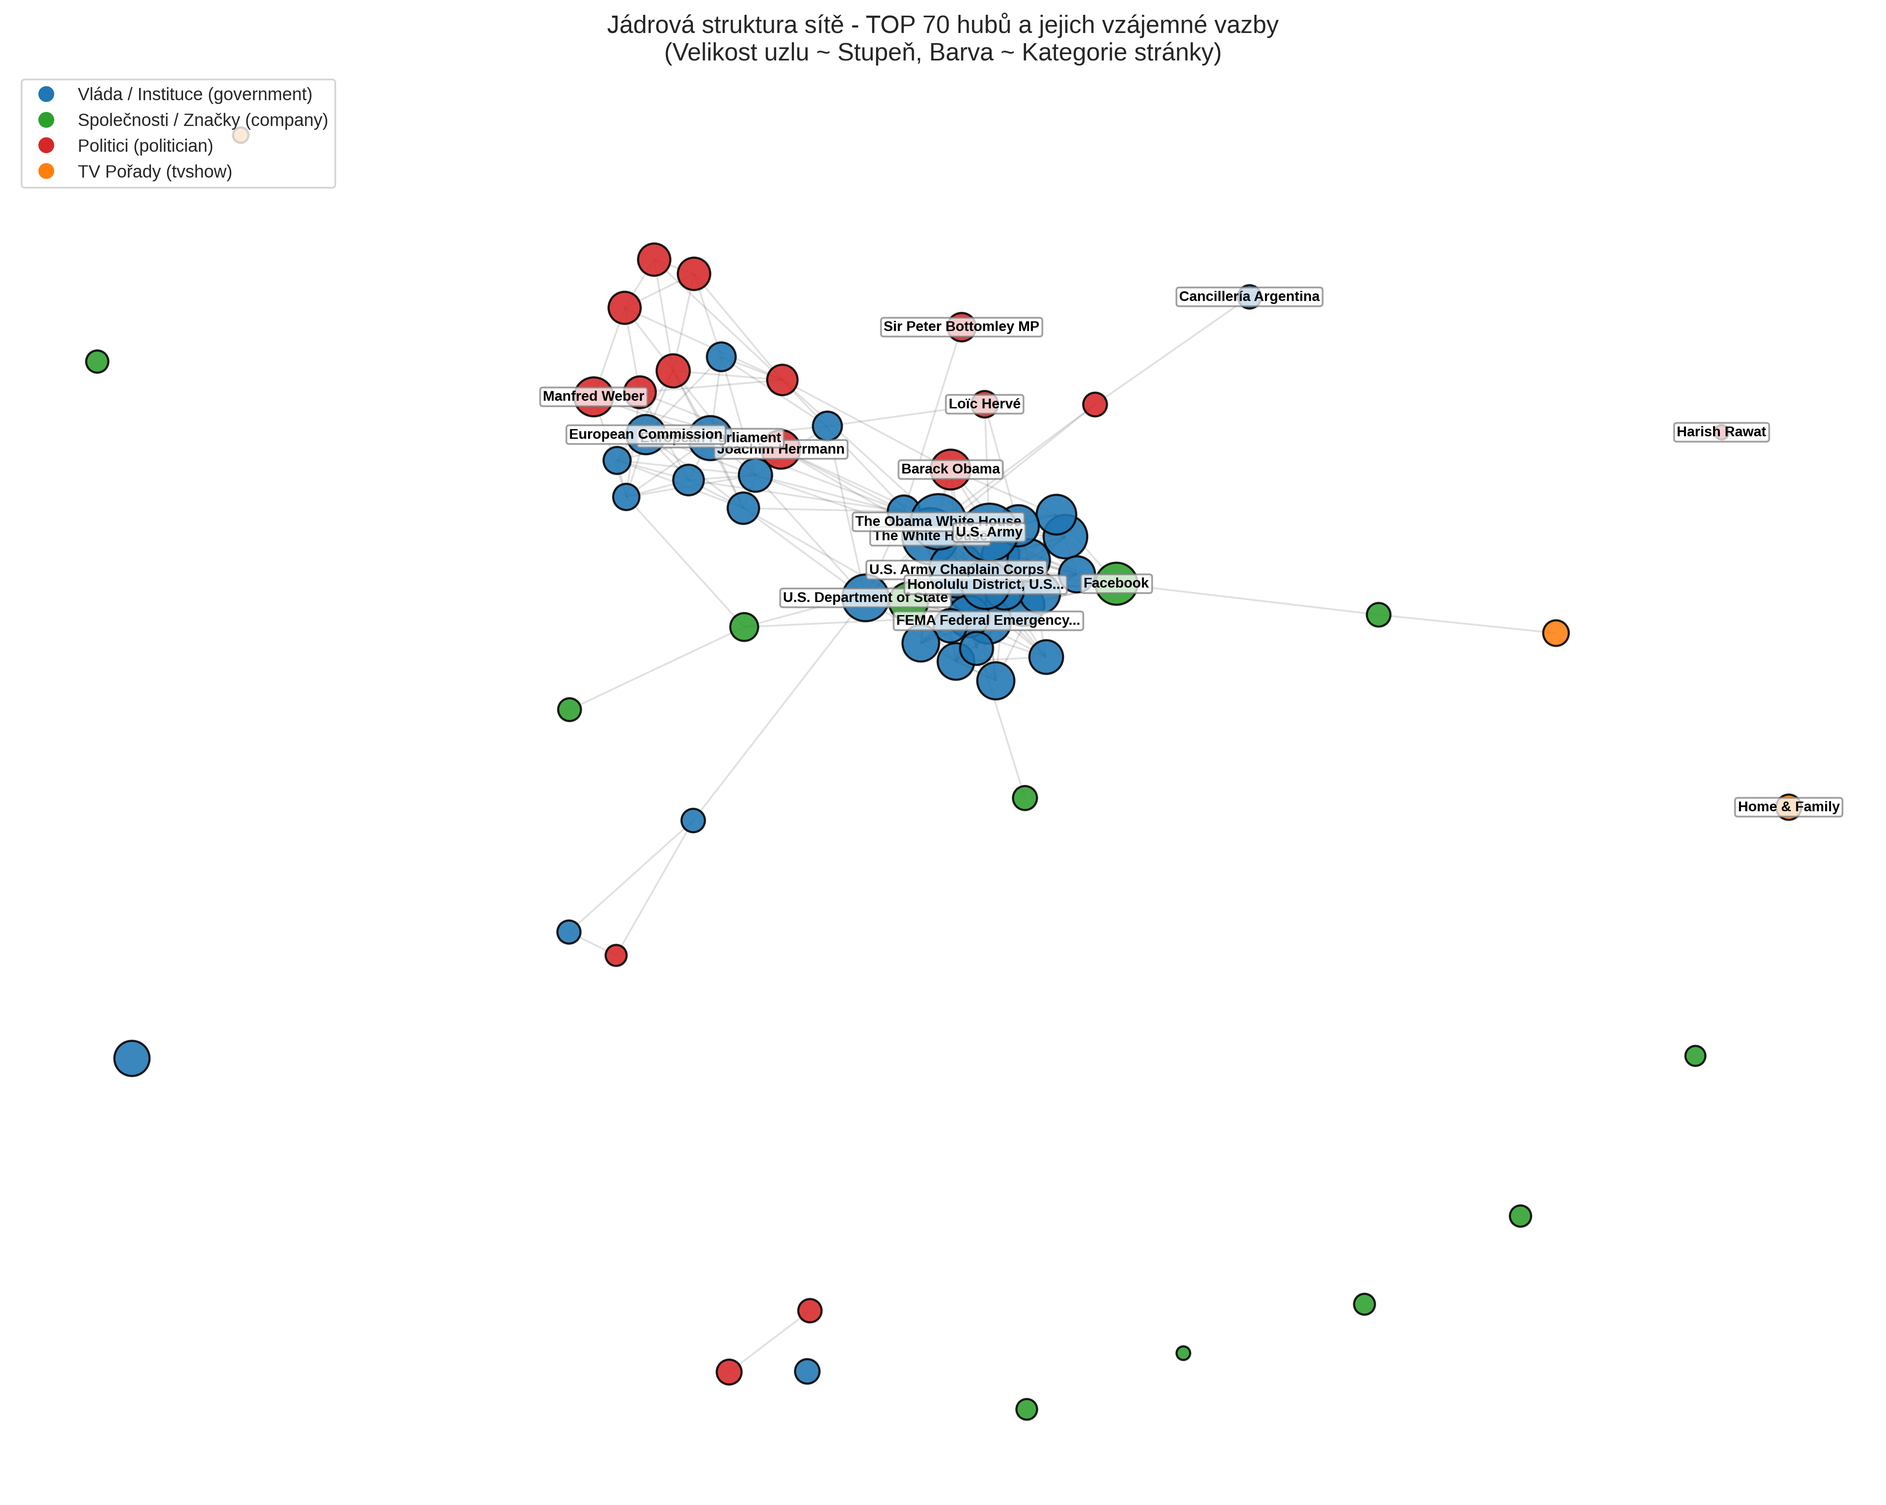
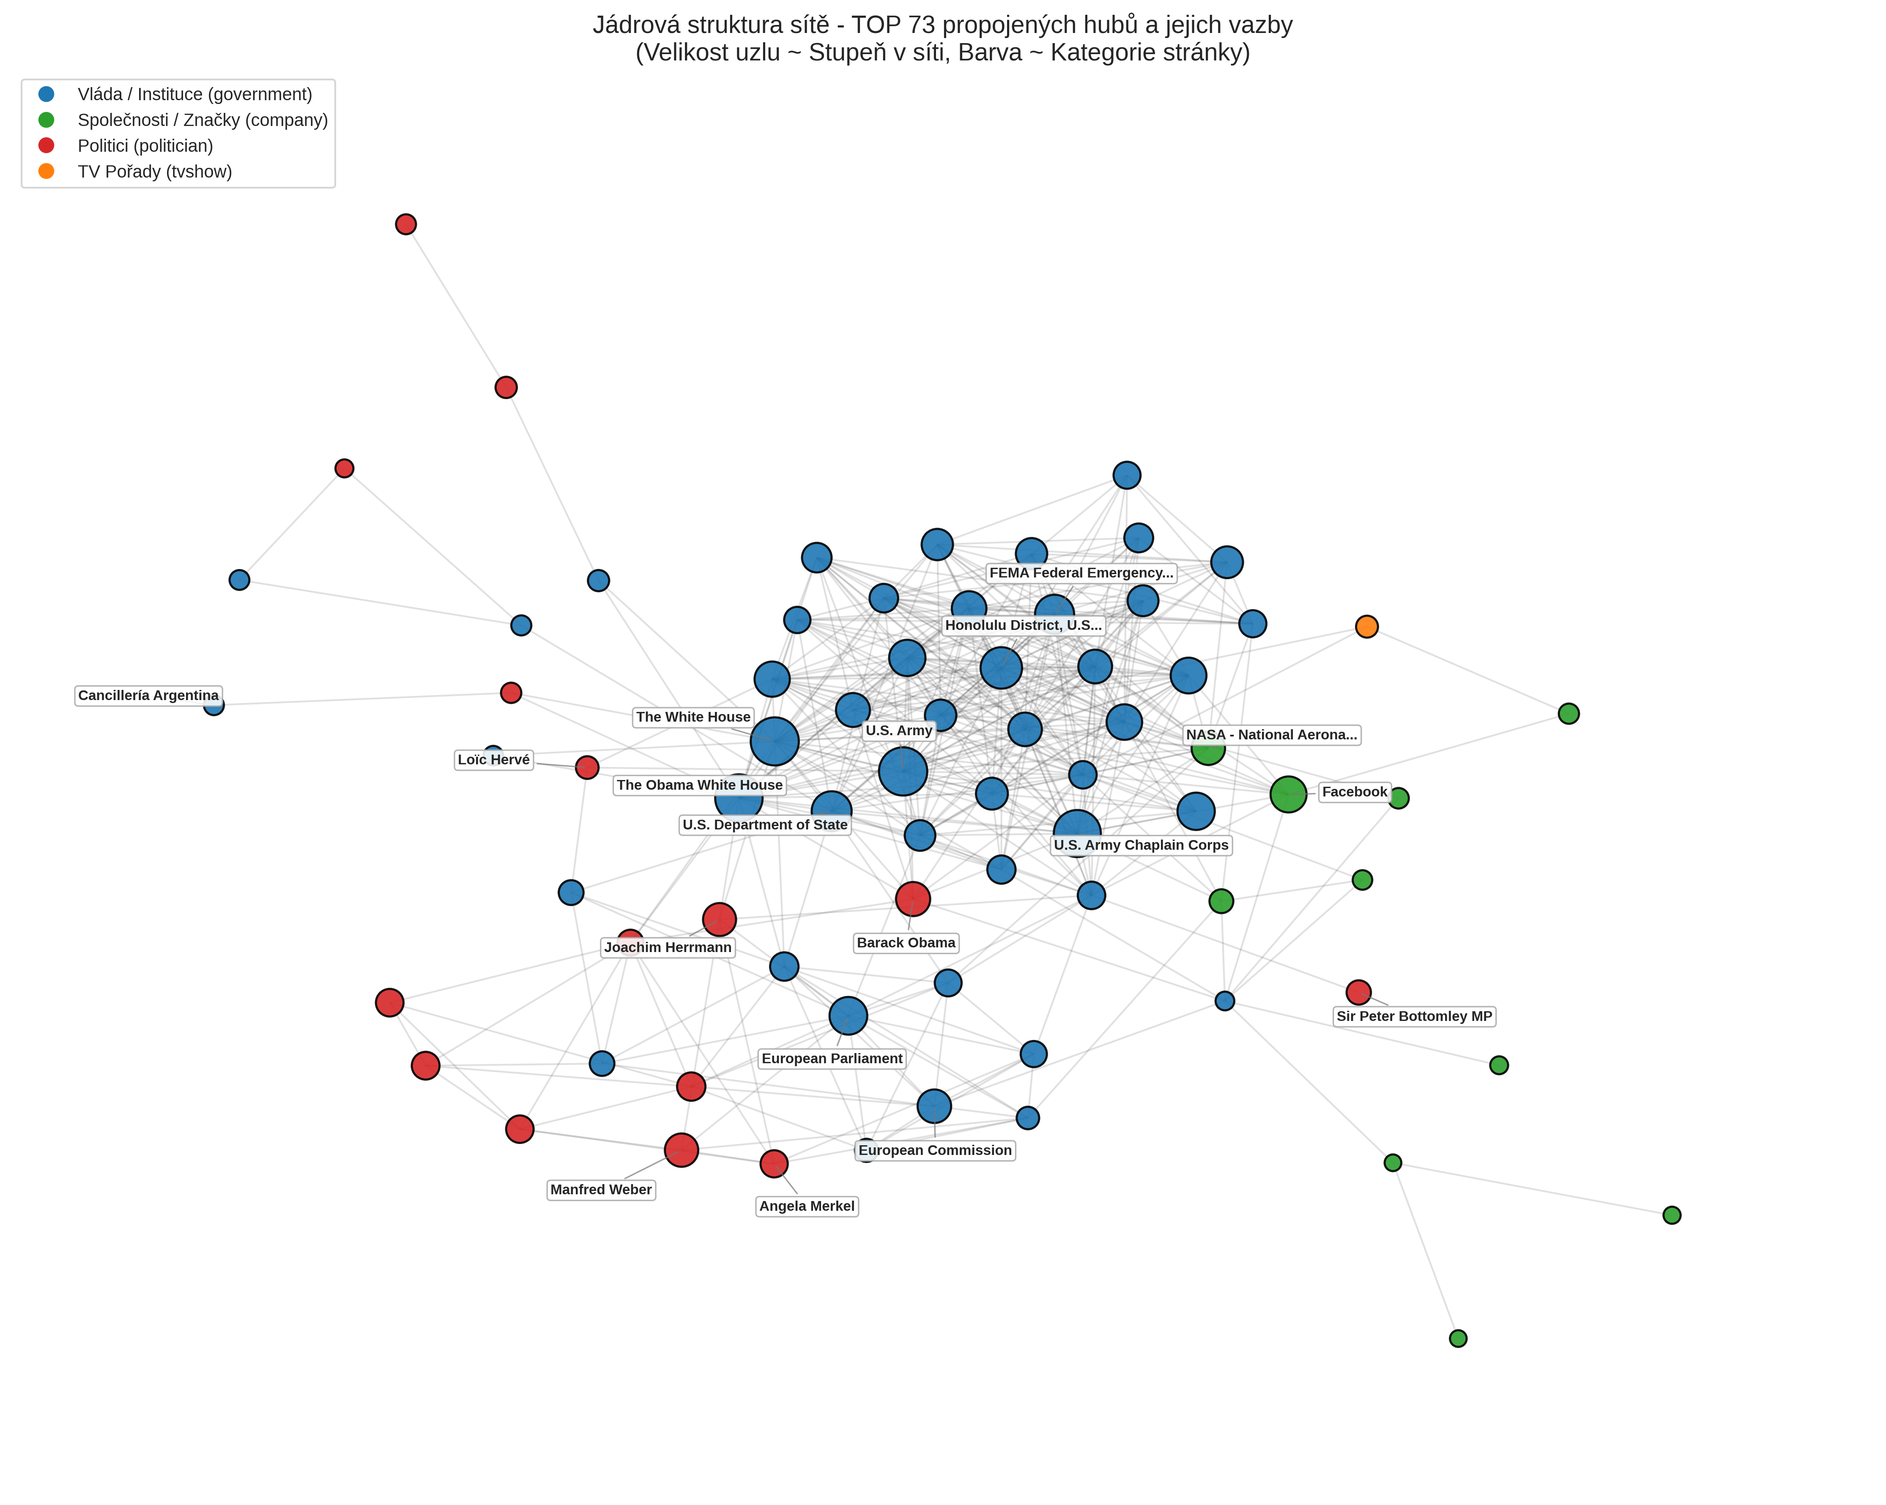
feat: Optimized layout parameters for png export

diff --git a/MAS_projekt.py b/MAS_projekt.py
@@ -425,24 +425,159 @@ def analyze_centralities(G: nx.Graph, df_target: pd.DataFrame, output_dir: str,
     }
 
 
+def relax_nodes(pos: Dict[Any, np.ndarray], min_dist: float = 0.11, 
+                iterations: int = 120, damping: float = 0.95) -> Dict[Any, np.ndarray]:
+    """
+    Vektorově optimalizovaná silová relaxace pro zamezení překryvu uzlů (anti-collision)
+    při současném zachování globální topologie a proporcí grafu.
+    """
+    nodes = list(pos.keys())
+    if len(nodes) <= 1:
+        return pos
+
+    coords = np.array([pos[n] for n in nodes], dtype=float)
+    n = len(nodes)
+    step = 0.2
+
+    for _ in range(iterations):
+        # Vzdálenosti mezi všemi dvojicemi uzlů (n x n)
+        diff = coords[:, np.newaxis, :] - coords[np.newaxis, :, :]
+        dists = np.hypot(diff[:, :, 0], diff[:, :, 1])
+        np.fill_diagonal(dists, 1e9)
+
+        mask = (dists < min_dist) & (dists > 1e-6)
+        if not np.any(mask):
+            break
+
+        forces = np.zeros_like(coords)
+        for i in range(n):
+            close_idx = np.where(mask[i])[0]
+            if len(close_idx) > 0:
+                d = dists[i, close_idx, np.newaxis]
+                dvec = diff[i, close_idx] / d
+                overlap = min_dist - d
+                forces[i] += np.sum(dvec * overlap, axis=0)
+
+        coords += forces * step
+        step *= damping
+
+    # Centrování a normalizace rozsahu
+    center = np.mean(coords, axis=0)
+    coords = coords - center
+    span = max(coords[:, 0].max() - coords[:, 0].min(), coords[:, 1].max() - coords[:, 1].min())
+    if span > 0:
+        coords = coords / (span / 2.0)
+
+    return {nodes[i]: coords[i] for i in range(n)}
+
+
+def smart_place_labels(ax: plt.Axes, pos: Dict[Any, np.ndarray], labels: Dict[Any, str], 
+                       fontsize: int = 8):
+    """
+    Inteligentní rozmístění popisků (labels) s detekcí kolizí a vodícími linkami:
+    Zabraňuje překrývání textových štítků navzájem i uzlů pod nimi.
+    """
+    if not labels:
+        return
+
+    label_items = list(labels.items())
+    label_nodes = [item[0] for item in label_items]
+    label_texts = [item[1] for item in label_items]
+
+    box_w = 0.26
+    box_h = 0.075
+
+    # Počáteční posun mírně směrem od těžiště
+    label_coords = []
+    for n in label_nodes:
+        x, y = pos[n]
+        norm = np.hypot(x, y)
+        if norm > 1e-4:
+            dx, dy = (x / norm) * 0.08, (y / norm) * 0.08
+        else:
+            dx, dy = 0.0, 0.08
+        label_coords.append([x + dx, y + dy])
+    label_coords = np.array(label_coords, dtype=float)
+
+    # Iterační odpuzování textových obdélníků (AABB collision resolution)
+    for _ in range(120):
+        moved = False
+        for i in range(len(label_coords)):
+            for j in range(i + 1, len(label_coords)):
+                dx = label_coords[i][0] - label_coords[j][0]
+                dy = label_coords[i][1] - label_coords[j][1]
+                overlap_x = (box_w * 0.95) - abs(dx)
+                overlap_y = (box_h * 0.95) - abs(dy)
+                if overlap_x > 0 and overlap_y > 0:
+                    moved = True
+                    if overlap_y / box_h < overlap_x / box_w:
+                        shift_y = 0.5 * overlap_y * (1 if dy >= 0 else -1)
+                        label_coords[i][1] += shift_y
+                        label_coords[j][1] -= shift_y
+                    else:
+                        shift_x = 0.5 * overlap_x * (1 if dx >= 0 else -1)
+                        label_coords[i][0] += shift_x
+                        label_coords[j][0] -= shift_x
+        if not moved:
+            break
+
+    # Vykreslení popisků a spojnic k uzlům
+    for i, n in enumerate(label_nodes):
+        nx_val, ny_val = pos[n]
+        lx, ly = label_coords[i]
+        dist = np.hypot(lx - nx_val, ly - ny_val)
+        arrowprops = dict(arrowstyle='-', color='#777777', lw=0.8, alpha=0.7) if dist > 0.07 else None
+
+        ax.annotate(
+            label_texts[i],
+            xy=(nx_val, ny_val),
+            xytext=(lx, ly),
+            ha='center', va='center',
+            fontsize=fontsize,
+            fontweight='bold',
+            bbox=dict(boxstyle='round,pad=0.25', facecolor='white', alpha=0.88, edgecolor='#aaaaaa', linewidth=0.8),
+            arrowprops=arrowprops,
+            zorder=10
+        )
+
+
+def compute_balanced_layout(subG: nx.Graph, min_dist: float = 0.11, 
+                           iterations: int = 120) -> Dict[Any, np.ndarray]:
+    """
+    Vypočítá vyvážený layout grafu s rovnoměrným rozložením uzlů (Kamada-Kawai)
+    a následnou fyzikální relaxací pro zamezení překryvu (anti-collision).
+    """
+    try:
+        pos = nx.kamada_kawai_layout(subG)
+    except Exception:
+        pos = nx.spring_layout(subG, k=0.55, iterations=150, seed=42)
+    return relax_nodes(pos, min_dist=min_dist, iterations=iterations)
+
+
 def visualize_network_hubs(G: nx.Graph, df_target: pd.DataFrame, 
                            centralities: Dict[str, Any], output_dir: str, 
-                           top_hubs_count: int = 70):
+                           top_hubs_count: int = 85):
     """
-    Vizualizuje jádro sítě tvořené nejvýznamnějšími huby (nejvyšší stupeň / PageRank).
+    Vizualizuje jádro sítě tvořené nejvýznamnějšími huby (nejvyšší PageRank / stupeň).
     Zvýrazní velikost podle stupně a barvu podle kategorie stránky (page_type).
-    Označí jménem největší centra/huby.
+    Používá vyvážený layout s prevencí překryvů a čitelné popisky.
     """
     print("\n" + "="*60)
     print(" 5. VIZUALIZACE SÍTĚ A ZVÝRAZNĚNÍ CENTER/HUBŮ")
     print("="*60)
 
-    # Výběr top N uzlů podle PageRanku / stupně pro reprezentativní podgraf jádra
+    # Výběr top N uzlů podle PageRanku pro reprezentativní podgraf jádra
     top_nodes = [node for node, pr in sorted(centralities['pagerank_cent'].items(), key=lambda x: x[1], reverse=True)[:top_hubs_count]]
     subG = G.subgraph(top_nodes).copy()
 
-    print(f"[*] Vytvářím rozložení (layout) pro podgraf {subG.number_of_nodes()} hlavních hubů s {subG.number_of_edges()} hranami...")
-    pos = nx.spring_layout(subG, k=0.35, iterations=80, seed=42)
+    # Odstranění izolovaných uzlů a zachování propojeného jádra
+    subG.remove_nodes_from(list(nx.isolates(subG)))
+    if not nx.is_connected(subG) and len(subG) > 0:
+        lcc = max(nx.connected_components(subG), key=len)
+        subG = subG.subgraph(lcc).copy()
+
+    print(f"[*] Vytvářím rozložení (layout) pro podgraf {subG.number_of_nodes()} propojených hubů s {subG.number_of_edges()} hranami...")
+    pos = compute_balanced_layout(subG, min_dist=0.11, iterations=120)
 
     # Barevné mapování podle kategorie
     color_map = {
@@ -458,7 +593,7 @@ def visualize_network_hubs(G: nx.Graph, df_target: pd.DataFrame,
         cat = df_target.loc[node, 'page_type'] if node in df_target.index else 'other'
         node_colors.append(color_map.get(cat, '#7f7f7f'))
         deg = G.degree(node)
-        node_sizes.append(max(60, min(1200, deg * 1.5)))
+        node_sizes.append(max(90, min(750, deg * 1.1)))
 
     fig, ax = plt.subplots(figsize=(15, 12))
 
@@ -466,18 +601,16 @@ def visualize_network_hubs(G: nx.Graph, df_target: pd.DataFrame,
     nx.draw_networkx_edges(subG, pos, ax=ax, alpha=0.18, edge_color='#555555', width=1.0)
 
     # Kreslení uzlů
-    nx.draw_networkx_nodes(subG, pos, ax=ax, node_color=node_colors, node_size=node_sizes, alpha=0.88, edgecolors='black', linewidths=1.2)
+    nx.draw_networkx_nodes(subG, pos, ax=ax, node_color=node_colors, node_size=node_sizes, alpha=0.9, edgecolors='black', linewidths=1.2)
 
-    # Popisky pro TOP 18 nejvýznamnějších stránek
-    top_labeled = sorted(top_nodes, key=lambda n: centralities['pagerank_cent'][n], reverse=True)[:18]
+    # Popisky pro TOP 18 nejvýznamnějších stránek s inteligentním rozmístěním bez překryvů
+    top_labeled = sorted(subG.nodes(), key=lambda n: centralities['pagerank_cent'].get(n, 0.0), reverse=True)[:18]
     labels = {}
     for n in top_labeled:
         name = df_target.loc[n, 'page_name'] if n in df_target.index else str(n)
-        # Zkrácení příliš dlouhých názvů
         labels[n] = name[:22] + "..." if len(name) > 25 else name
 
-    nx.draw_networkx_labels(subG, pos, labels=labels, ax=ax, font_size=8, font_weight='bold', font_color='black',
-                            bbox=dict(boxstyle="round,pad=0.2", facecolor="white", alpha=0.75, edgecolor="gray"))
+    smart_place_labels(ax, pos, labels, fontsize=8)
 
     # Legenda pro kategorie
     legend_elements = [
@@ -488,8 +621,9 @@ def visualize_network_hubs(G: nx.Graph, df_target: pd.DataFrame,
     ]
     ax.legend(handles=legend_elements, loc='upper left', frameon=True, fontsize=10)
 
-    ax.set_title(f"Jádrová struktura sítě - TOP {top_hubs_count} hubů a jejich vzájemné vazby\n(Velikost uzlu ~ Stupeň, Barva ~ Kategorie stránky)", fontsize=14)
+    ax.set_title(f"Jádrová struktura sítě - TOP {subG.number_of_nodes()} propojených hubů a jejich vazby\n(Velikost uzlu ~ Stupeň v síti, Barva ~ Kategorie stránky)", fontsize=14)
     ax.axis('off')
+    ax.margins(0.08)
 
     plt.tight_layout()
     chart_path = os.path.join(output_dir, "5_vizualizace_center_hubu.png")
@@ -581,34 +715,52 @@ def analyze_communities(G: nx.Graph, df_target: pd.DataFrame, output_dir: str) -
     print(f"[+] Graf distribuce komunit uložen do: {chart_path}")
 
     # Vizualizace komunitní struktury:
-    # 1. Podgraf jádra obarvený podle 6 největších Louvain komunit
+    # 1. Podgraf jádra obarvený podle Louvain komunit
     fig, ax = plt.subplots(figsize=(15, 12))
     
-    # Výběr 80 největších hubů pro přehlednost
+    # Výběr největších hubů pro přehlednost jádra a zachování souvislého grafu
     top_hubs = [node for node, deg in sorted(G.degree(), key=lambda x: x[1], reverse=True)[:85]]
     subG = G.subgraph(top_hubs).copy()
-    pos = nx.spring_layout(subG, k=0.35, iterations=80, seed=42)
+    subG.remove_nodes_from(list(nx.isolates(subG)))
+    if not nx.is_connected(subG) and len(subG) > 0:
+        lcc = max(nx.connected_components(subG), key=len)
+        subG = subG.subgraph(lcc).copy()
 
-    # Barvy pro top komunity
-    palette = ['#e41a1c', '#377eb8', '#4daf4a', '#984ea3', '#ff7f00', '#ffff33', '#a65628', '#f781bf']
-    comm_colors = []
-    for node in subG.nodes():
-        cid = node_to_louvain.get(node, 0)
-        comm_colors.append(palette[cid % len(palette)])
+    pos = compute_balanced_layout(subG, min_dist=0.11, iterations=120)
 
-    node_sizes = [max(80, min(1400, G.degree(n) * 1.6)) for n in subG.nodes()]
+    # Barvy pro top komunity bez kolizí palety (mapováno podle velikosti v podgrafu)
+    palette = ['#1f77b4', '#ff7f0e', '#2ca02c', '#d62728', '#9467bd', '#8c564b', '#e377c2', '#7f7f7f', '#bcbd22', '#17becf']
+    unique_comms = sorted(
+        list(set(node_to_louvain.get(node, 0) for node in subG.nodes())),
+        key=lambda c: sum(1 for n in subG.nodes() if node_to_louvain.get(n, 0) == c),
+        reverse=True
+    )
+    comm_to_color = {cid: palette[i % len(palette)] for i, cid in enumerate(unique_comms)}
+    comm_colors = [comm_to_color[node_to_louvain.get(node, 0)] for node in subG.nodes()]
 
-    nx.draw_networkx_edges(subG, pos, ax=ax, alpha=0.2, edge_color='#666666')
+    node_sizes = [max(90, min(750, G.degree(n) * 1.1)) for n in subG.nodes()]
+
+    nx.draw_networkx_edges(subG, pos, ax=ax, alpha=0.18, edge_color='#666666', width=1.0)
     nx.draw_networkx_nodes(subG, pos, ax=ax, node_color=comm_colors, node_size=node_sizes, alpha=0.88, edgecolors='black', linewidths=1.2)
 
-    # Popisky pro top uzly
-    top_labeled = sorted(top_hubs, key=lambda n: G.degree(n), reverse=True)[:18]
-    labels = {n: (df_target.loc[n, 'page_name'][:20] if n in df_target.index else str(n)) for n in top_labeled}
-    nx.draw_networkx_labels(subG, pos, labels=labels, ax=ax, font_size=8, font_weight='bold',
-                            bbox=dict(boxstyle="round,pad=0.2", facecolor="white", alpha=0.8, edgecolor="gray"))
+    # Popisky pro top uzly s inteligentním rozmístěním bez překryvů
+    top_labeled = sorted(subG.nodes(), key=lambda n: G.degree(n), reverse=True)[:18]
+    labels = {n: (df_target.loc[n, 'page_name'][:20] + '...' if len(df_target.loc[n, 'page_name']) > 22 else df_target.loc[n, 'page_name']) 
+              if n in df_target.index else str(n) for n in top_labeled}
+    smart_place_labels(ax, pos, labels, fontsize=8)
 
-    ax.set_title("Struktura komunit (Louvain) na jádru sítě\n(Různé barvy reprezentují různé Louvain komunity)", fontsize=14)
+    # Legenda pro komunity
+    legend_elements = [
+        plt.Line2D([0], [0], marker='o', color='w', 
+                   label=f'Komunita {cid} ({sum(1 for n in subG.nodes() if node_to_louvain.get(n, 0) == cid)} uzlů)',
+                   markerfacecolor=comm_to_color[cid], markersize=10)
+        for cid in unique_comms[:6]
+    ]
+    ax.legend(handles=legend_elements, loc='upper left', frameon=True, fontsize=10, title='Louvain komunity')
+
+    ax.set_title(f"Struktura komunit (Louvain) na jádru sítě ({subG.number_of_nodes()} největších hubů)\n(Barevně odlišeny jednotlivé Louvain komunity)", fontsize=14)
     ax.axis('off')
+    ax.margins(0.08)
 
     plt.tight_layout()
     chart_comm_path = os.path.join(output_dir, "7_vizualizace_komunit.png")
@@ -722,8 +874,8 @@ def generate_summary_report(stats_basic: Dict[str, Any],
 | **Odhad průměru sítě (Diameter)** | **{stats_conn['approx_diameter']}** | Maximální zjištěný počet kroků mezi uzly |
 
 ### Interpretace distribuce stupňů a shlukovacího efektu:
-1. **Distribuce stupňů (Degree Distribution):** Vykazuje těžký chvost (heavy-tail) s přibližným mocninným zákonem $P(k) \sim k^{{-\gamma}}$. Drtivá většina stránek má nízký stupeň, zatímco malé procento hubů má stovky až tisíce hran (bezškálová síť / Scale-Free).
-2. **Shlukovací efekt C(k):** Průměrný shlukovací koeficient klesá s rostoucím stupněm uzlu $C(k) \sim k^{{-\alpha}}$. To dokazuje **hierarchickou modularitu** sítě: malé uzly tvoří husté lokální klastry, zatímco velké huby propojují různé klastry navzájem a mají nižší lokální koeficient shlukování.
+1. **Distribuce stupňů (Degree Distribution):** Vykazuje těžký chvost (heavy-tail) s přibližným mocninným zákonem $P(k) \\sim k^{{-\\gamma}}$. Drtivá většina stránek má nízký stupeň, zatímco malé procento hubů má stovky až tisíce hran (bezškálová síť / Scale-Free).
+2. **Shlukovací efekt C(k):** Průměrný shlukovací koeficient klesá s rostoucím stupněm uzlu $C(k) \\sim k^{{-\\alpha}}$. To dokazuje **hierarchickou modularitu** sítě: malé uzly tvoří husté lokální klastry, zatímco velké huby propojují různé klastry navzájem a mají nižší lokální koeficient shlukování.
 
 ---
 

diff --git a/output/vysledky_analyzy_report.md b/output/vysledky_analyzy_report.md
@@ -1,7 +1,7 @@
 # Výsledky strukturální a komunitní analýzy sítě Facebook Large Page-Page Network
 **Předmět:** MAS1 (Modelování a simulace / Analýza sítí)  
 **Dataset:** Facebook Large Page-Page Webgraph (musae_facebook)  
-**Datum generování:** 15.10.2026 08:27:10
+**Datum generování:** 15.10.2026 09:48:10
 
 ---
 
@@ -34,7 +34,7 @@
 
 ### Interpretace distribuce stupňů a shlukovacího efektu:
 1. **Distribuce stupňů (Degree Distribution):** Vykazuje těžký chvost (heavy-tail) s přibližným mocninným zákonem $P(k) \sim k^{-\gamma}$. Drtivá většina stránek má nízký stupeň, zatímco malé procento hubů má stovky až tisíce hran (bezškálová síť / Scale-Free).
-2. **Shlukovací efekt C(k):** Průměrný shlukovací koeficient klesá s rostoucím stupněm uzlu $C(k) \sim k^{-alpha}$. To dokazuje **hierarchickou modularitu** sítě: malé uzly tvoří husté lokální klastry, zatímco velké huby propojují různé klastry navzájem a mají nižší lokální koeficient shlukování.
+2. **Shlukovací efekt C(k):** Průměrný shlukovací koeficient klesá s rostoucím stupněm uzlu $C(k) \sim k^{-\alpha}$. To dokazuje **hierarchickou modularitu** sítě: malé uzly tvoří husté lokální klastry, zatímco velké huby propojují různé klastry navzájem a mají nižší lokální koeficient shlukování.
 
 ---
 
